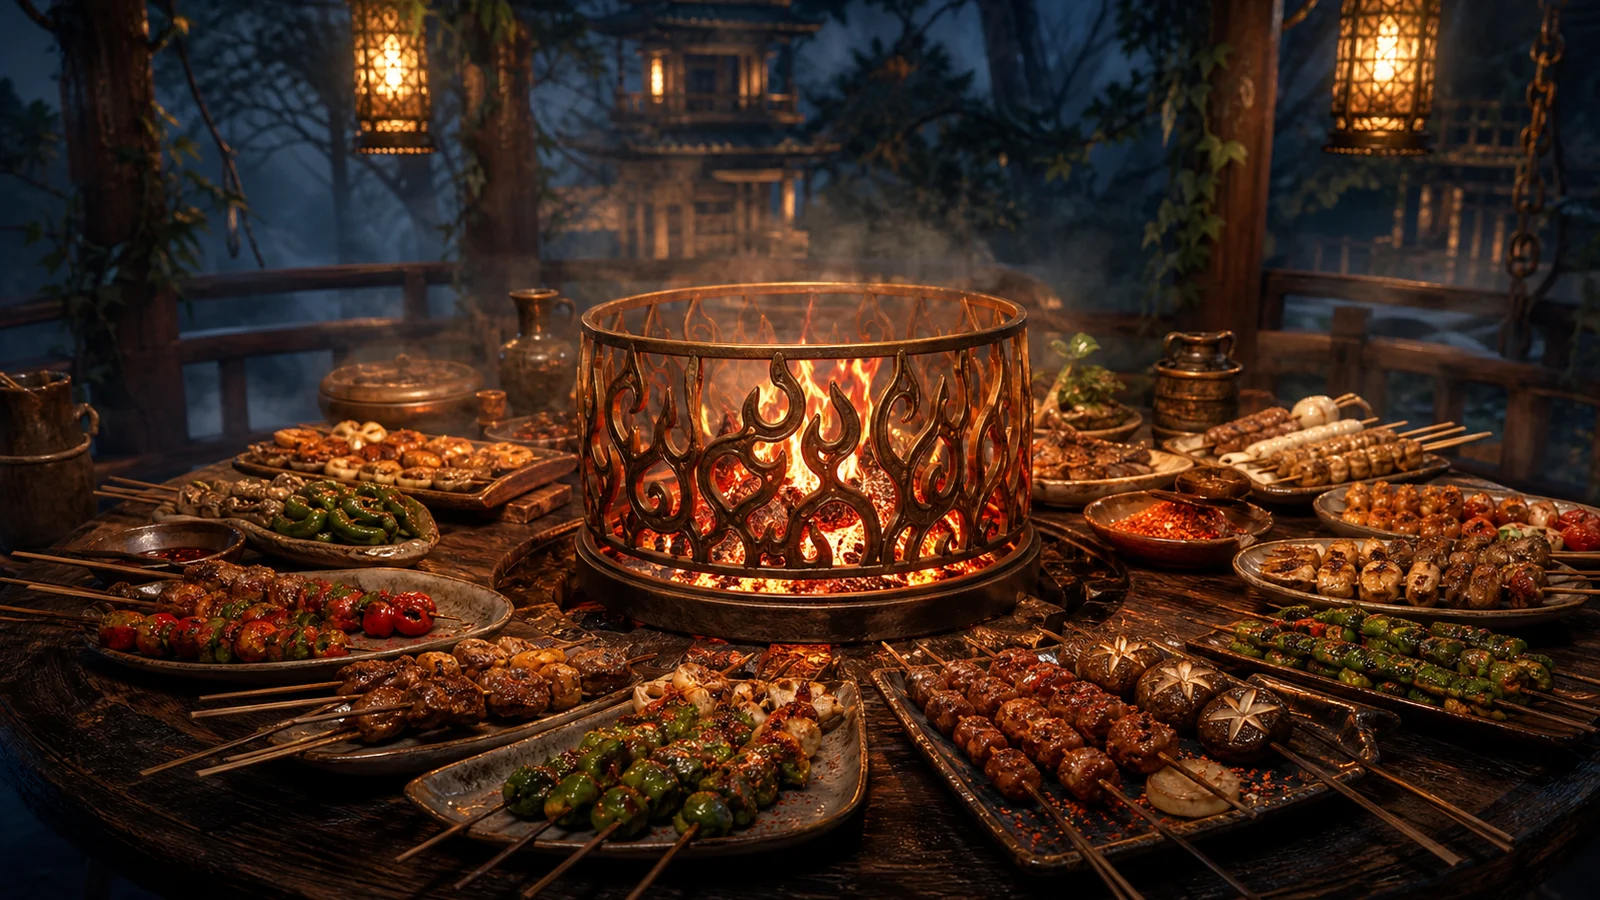
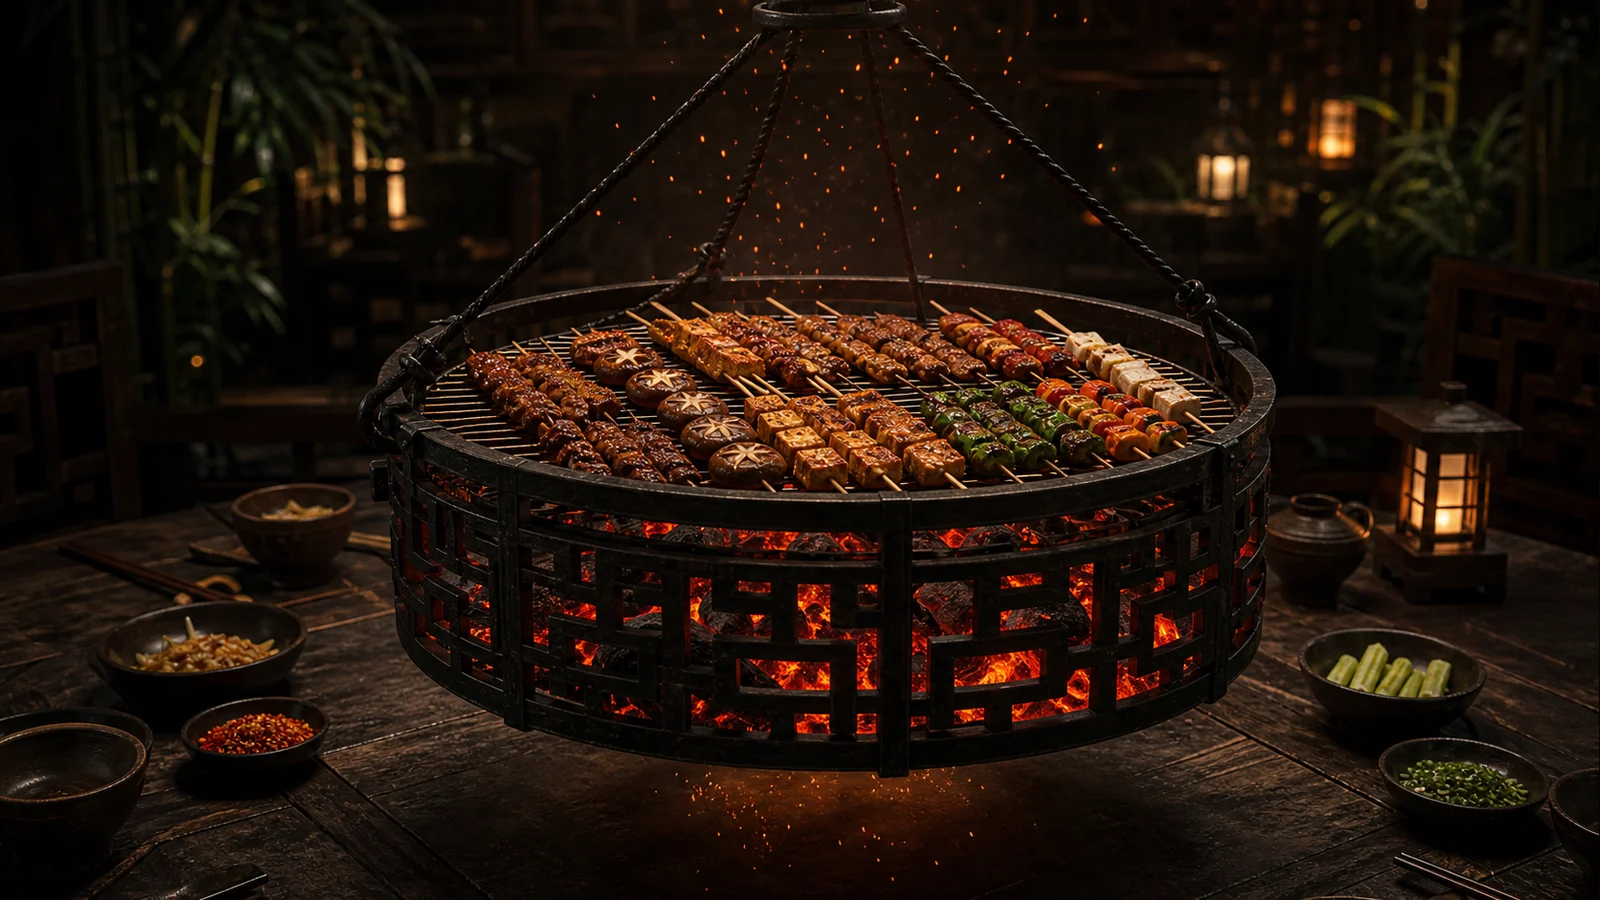
content: revise fire cage barbecue

diff --git a/docs/visual-asset-register.md b/docs/visual-asset-register.md
@@ -54,7 +54,7 @@
 | `public/assets/dishes/menu/currency-jade-greens.webp` | “货币赌玉一片绿时蔬”菜单卡片、详情和推荐图 | 白瓷浅盘铺满鲜嫩翠绿菜叶，盘边散落抽象铜筹，背景为雾林瀑布与暖灯 | OpenAI 内置 imagegen；项目维护者整理 | 项目原创生成图，仅供本站非商业展示；铜筹为无文字抽象设计，不含官方素材，不代表官方概念设计 |
 | `public/assets/dishes/menu/divine-fire-red-armor-bun.webp` | “神火红甲包”菜单卡片、详情和推荐图 | 深色石盘上摆放四枚带几何层纹的红皮蒸包，其中一枚露出热馅，背景为沙城宴火 | OpenAI 内置 imagegen；项目维护者整理 | 项目原创生成图，仅供本站非商业展示；不含官方素材，不代表官方概念设计 |
 | `public/assets/dishes/menu/feather-arrow-golden-crow-char-siu.webp` | “羽箭金乌叉烧”菜单卡片、详情和推荐图 | 金红蜜汁叉烧切片呈放射状铺盘，间隔叶形酥片与竹签，背景为落日沙海宴席 | OpenAI 内置 imagegen；项目维护者整理 | 项目原创生成图，仅供本站非商业展示；不含官方素材，不代表官方概念设计 |
-| `public/assets/dishes/menu/fire-cage-barbecue.webp` | “火笼烧烤”菜单卡片、详情和推荐图 | 镂空铜色笼形炭炉在木桌中央燃烧，周围摆满肉串、菌菇和青椒烤串 | OpenAI 内置 imagegen；项目维护者整理 | 项目原创生成图，仅供本站非商业展示；不含官方素材，不代表官方概念设计 |
+| `public/assets/dishes/menu/fire-cage-barbecue.webp` | “火笼烧烤”菜单卡片、详情和推荐图 | 黑铁笼形炭炉由三根绳索悬在木桌上方，烤网上铺满肉串、菌菇、豆腐和青椒，炉中红炭迸出火星 | OpenAI 内置 imagegen；项目维护者整理 | 项目原创生成图，仅供本站非商业展示；悬吊炉具为通用原创结构，不复刻官方模型或特效，不代表官方概念设计 |
 | `public/assets/dishes/menu/fireman-wok-toss.webp` | “火男怒火颠勺”菜单卡片、详情和推荐图 | 圆底黑铁锅在红橙烈焰中颠起肉片、藕片、红椒与葱段，金色长柄炒勺横贯锅面，背景为雾林夜宴 | OpenAI 内置 imagegen；项目维护者整理 | 项目原创生成图，仅供本站非商业展示；不含角色、技能特效或官方素材，不代表官方概念设计 |
 | `public/assets/dishes/menu/gaoshou-peach-crisps.webp` | “糕手桃酥”菜单卡片、详情和推荐图 | 五枚粉色桃型酥点整齐摆在白色素纸上，周围散落少量酥渣并点缀桃花，背景为深色木案 | OpenAI 内置 imagegen；项目维护者整理 | 项目原创生成图，仅供本站非商业展示；不含角色、角色纹样或官方素材，不代表官方概念设计 |
 | `public/assets/dishes/menu/guaranteed-red-four-platter.webp` | “开箱必出红四拼盘”菜单卡片、详情和推荐图 | 四格鎏金方盘内摆着红袍形乳鸽藕糕、酱烤肋排、焗大虾与山楂糖饰，宝箱造型托盘周围升起白雾 | OpenAI 内置 imagegen；项目维护者整理 | 项目原创生成图，仅供本站非商业展示；使用抽象花纹、宝箱意象与通用食材造型，不含官方素材，不代表官方概念设计 |

diff --git a/docs/research/menu-image-review.md b/docs/research/menu-image-review.md
@@ -19,7 +19,7 @@
 | 货币赌玉一片绿时蔬 | `public/assets/dishes/menu/currency-jade-greens.webp` | 聚窟洲 | 清晰；白瓷浅盘内只铺鲜嫩绿色菜叶，盘边抽象铜筹可辨识 | 翡翠绿、瓷白、铜褐、雾灰 | 未见文字或文字伪影、人物、Logo、游戏 UI、截图或可识别官方素材；无文字铜筹、灯具与瀑布为通用原创元素 | 通过，可用于本站非商业展示 |
 | 神火红甲包 | `public/assets/dishes/menu/divine-fire-red-armor-bun.webp` | 火罗国 | 清晰；四枚红色蒸包及一枚剖面包为主体 | 赤红、焦橙、沙金 | 未见文字或文字伪影、人物、Logo、游戏 UI、截图或可识别官方素材；包面几何层纹为原创装饰，不指向官方甲胄或标识 | 通过，可用于本站非商业展示 |
 | 羽箭金乌叉烧 | `public/assets/dishes/menu/feather-arrow-golden-crow-char-siu.webp` | 火罗国 | 清晰；蜜汁叉烧与羽叶形装饰集中陈列 | 金黄、蜜红、深褐 | 未见文字或文字伪影、人物、Logo、游戏 UI、截图或可识别官方素材；沙漠宴席背景为通用原创场景 | 通过，可用于本站非商业展示 |
-| 火笼烧烤 | `public/assets/dishes/menu/fire-cage-barbecue.webp` | 聚窟洲 | 清晰；中央笼形炭炉及四周烤串可辨识 | 炭黑、火橙、夜蓝 | 未见文字或文字伪影、人物、Logo、游戏 UI、截图或可识别官方素材；火焰纹炉罩为原创器物装饰 | 通过，可用于本站非商业展示 |
+| 火笼烧烤 | `public/assets/dishes/menu/fire-cage-barbecue.webp` | 聚窟洲 | 清晰；三绳悬吊的黑铁笼形炭炉、整齐烤串、红炭与上下火星均可辨识 | 炭黑、火橙、暖金、深绿 | 未见文字或文字伪影、人物、Logo、游戏 UI、截图或可识别官方素材；悬吊炉具、绳结与火星为通用原创构图，不复刻可识别游戏模型 | 通过，可用于本站非商业展示 |
 | 火男怒火颠勺 | `public/assets/dishes/menu/fireman-wok-toss.webp` | 聚窟洲 | 清晰；完整锅沿、金色长柄炒勺、肉片、藕片、红椒、葱段和腾空弧线明确 | 火橙、金色、酱褐、深绿 | 未见文字或文字伪影、人物、Logo、游戏 UI、截图或可识别官方素材；仅表现通用猛火快炒动作，不呈现可识别角色或技能特效 | 通过，可用于本站非商业展示 |
 | 糕手桃酥 | `public/assets/dishes/menu/gaoshou-peach-crisps.webp` | 聚窟洲 | 清晰；五枚粉色桃型酥点完整可数，桃形轮廓、细碎酥纹、素纸与少量桃花均可辨识 | 桃粉、纸白、深木褐 | 未见文字或文字伪影、人物、Logo、游戏 UI、截图或可识别官方素材；桃型酥点、素纸和桃花摆盘均为通用原创元素 | 通过，可用于本站非商业展示 |
 | 开箱必出红四拼盘 | `public/assets/dishes/menu/guaranteed-red-four-platter.webp` | 聚窟洲 | 清晰；鎏金方盘内四类赤红食物和宝箱造型托盘均完整可见 | 绛红、鎏金、墨绿、雾白 | 未见文字或文字伪影、人物、Logo、游戏 UI、截图或可识别官方素材；盘面花纹、托盘和食物轮廓均为抽象原创设计，不复刻官方宝箱、返魂花图标或武器模型 | 通过，可用于本站非商业展示 |

diff --git a/src/content/menu-items/fire-cage-barbecue.md b/src/content/menu-items/fire-cage-barbecue.md
@@ -3,19 +3,20 @@ title: "火笼烧烤"
 slug: "fire-cage-barbecue"
 map: "聚窟洲"
 category: "套餐"
-description: "炭火围炉的烧烤拼盘，肉串、菌蔬和热气一起入席。"
+description: "荤素烤串围着悬吊黑铁炭炉上桌，红炭、暖光与焦香把多人开黑后的热闹带回席间。"
 order: 8
-dishIntro: "原创笼形炭炉托起肉串、菌菇、豆腐与时蔬，红炭把焦香一层层送上桌。它借火笼与灼烧语境成菜，烹饪用途属于本站二创。"
-dishSetting: "黑铁外罩围住圆形桌面炭炉，烤串沿顶部烤网排开，笼内只见红炭、暖光与向上火星。器具保留轻微悬吊感，但不复刻游戏中悬挂火笼的笼体、绳结或坠落特效。"
-playerComment: "本站席间趣评：这一笼不等它落下，围桌的人已经把最香的那串看得明明白白。"
+dishIntro: "这道围桌炭烤是适合多人开黑同享的烟火硬菜，各式肉蔬烤串架在炭火之上炙烤，烟火香气持续升腾，温热焦香裹着浓郁香料风味扑面而来。围炉共食的形式热闹十足，暖烘烘的炭火驱散席间寒凉，一口烤串下肚满是酣畅满足。菜式借悬挂火笼的游戏意象打造围坐撸串的独特氛围，兼顾热食饱腹与侠客相聚闲谈的趣味。"
+dishSetting: "以特制黑铁外罩环绕圆形桌面炭炉，各类荤素烤串整齐排布在炉顶金属烤网之上，笼内清晰可见赤红炭火、柔和暖光与不断向上窜起的细碎火星。整套烤具采用微微悬空的原创悬吊造型，搭配简洁绳结装饰，以黑铁笼身、悬挂结构与向下迸散的火星表现火笼垂落意象。摆盘不加多余花哨装饰，只凭炭火、铁笼与烤串呈现原始粗犷的烧烤质感。"
+playerComment: "悬在空中的火笼还未完全落稳，围坐桌边的食客早已紧盯烤网上香气最浓郁的那一串，人人都盘算着抢先拿下，恰似对局里众人盯住火笼、争相靠近的热闹场面。"
 recommendedPairing: "搭配不舟滩现捞石斑鱼，以清蒸鱼鲜平衡炭炉烧烤的焦香。"
 relatedElements:
-  - "悬挂火笼与机关灼烧语境"
-  - "原创笼形桌面炭炉"
-  - "肉串、菌菇、豆腐与时蔬"
+  - "玩家熟悉的悬挂火笼与坠落火光意象"
+  - "黑铁笼罩、绳结悬吊与炉中红炭火星"
+  - "围炉分食烤串对应多人聚集争抢的对局联想"
+  - "肉串、菌菇、豆腐与时蔬组成的多人烧烤席"
 image:
   src: "/assets/dishes/menu/fire-cage-barbecue.webp"
-  alt: "镂空铜色笼形炭炉在木桌中央燃烧，周围摆满肉串、菌菇和青椒烤串"
+  alt: "黑铁笼形炭炉由三根绳索悬在木桌上方，烤网上铺满肉串、菌菇、豆腐和青椒，炉中红炭迸出火星"
   credit: "AI 生成原创视觉，由项目维护者整理"
   license: "项目原创生成图，仅供本站非商业展示"
 ---
